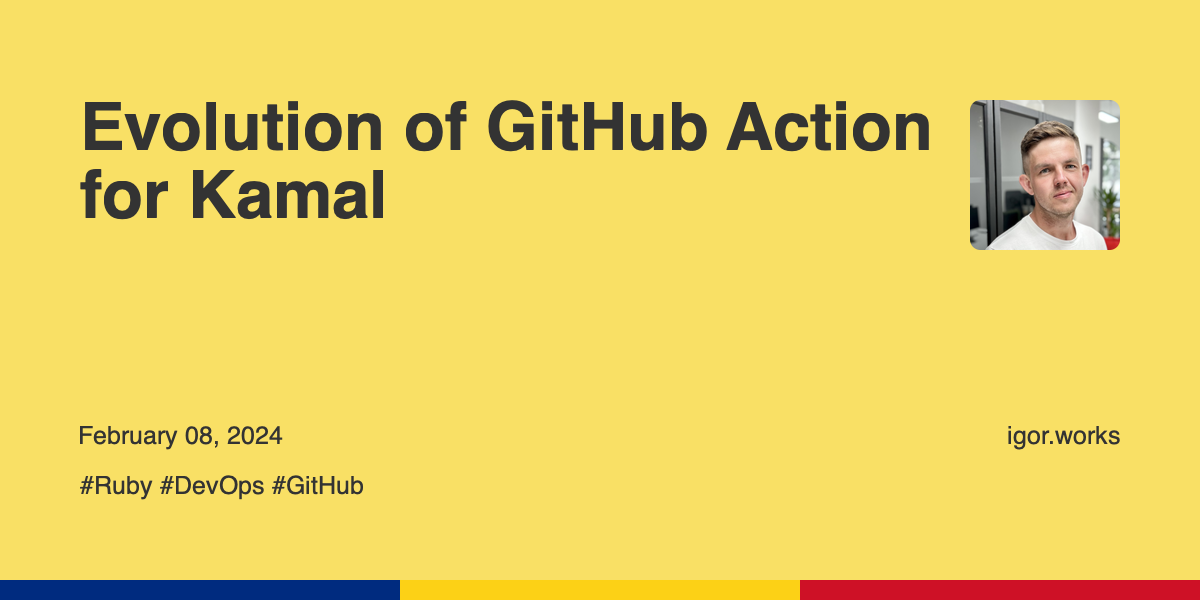
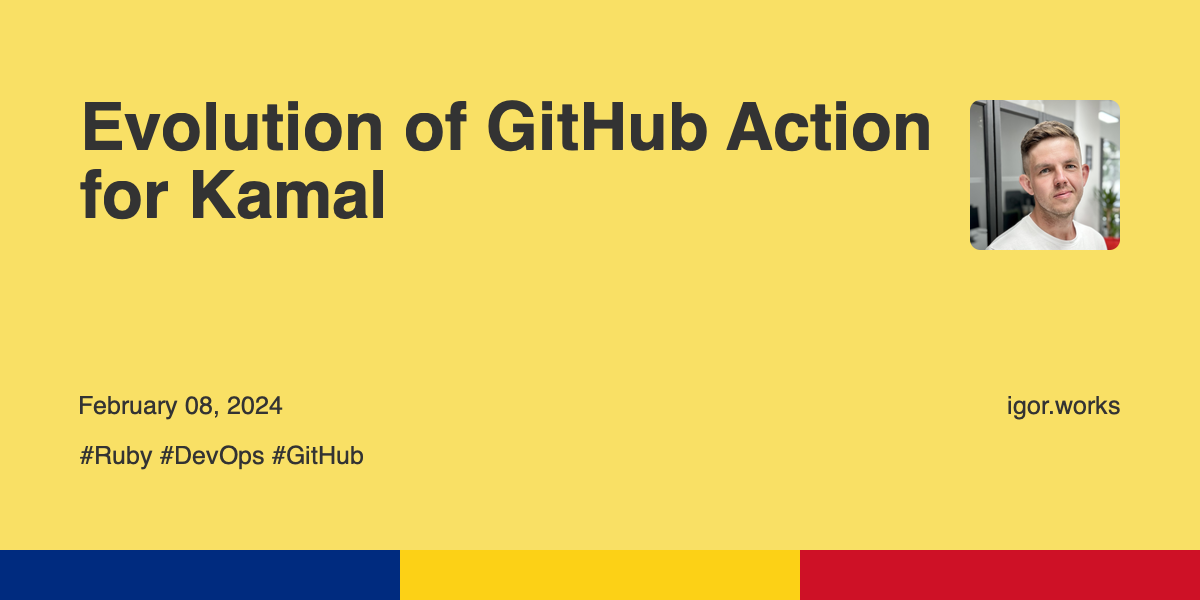
Added ability to use image as a background

Changed region(s): [[0.0, 0.9, 1.0, 0.99], [0.0617, 0.66, 0.3083, 0.84], [0.8325, 0.66, 0.9558, 0.75]]

diff --git a/lib/jekyll_og_image/generator.rb b/lib/jekyll_og_image/generator.rb
@@ -35,13 +35,21 @@ class JekyllOgImage::Generator < Jekyll::Generator
   def generate_image_for_post(site, post, path)
     date = post.date.strftime("%B %d, %Y")
 
+    background_image = if JekyllOgImage.config.canvas["background_image"]
+      File.read(File.join(site.config["source"], JekyllOgImage.config.canvas["background_image"]))
+    end
+
     canvas = JekyllOgImage::Element::Canvas.new(1200, 600,
-        color: JekyllOgImage.config.canvas["background_color"]
-      )
-      .border(JekyllOgImage.config.border_bottom["width"],
+      background_color: JekyllOgImage.config.canvas["background_color"],
+      background_image: background_image
+    )
+
+    if JekyllOgImage.config.border_bottom
+      canvas = canvas.border(JekyllOgImage.config.border_bottom["width"],
         position: :bottom,
         fill: JekyllOgImage.config.border_bottom["fill"]
       )
+    end
 
     if JekyllOgImage.config.image
       canvas = canvas.image(
@@ -65,7 +73,7 @@ class JekyllOgImage::Generator < Jekyll::Generator
       color: JekyllOgImage.config.content["color"],
       dpi: 150,
       font: JekyllOgImage.config.content["font_family"]
-    ) { |_canvas, _text| { x: 80, y: post.data["tags"].any? ? 150 : 100 } }
+    ) { |_canvas, _text| { x: 80, y: post.data["tags"].any? ? JekyllOgImage.config.margin_bottom + 50 : JekyllOgImage.config.margin_bottom } }
 
     if post.data["tags"].any?
       tags = post.data["tags"].map { |tag| "##{tag}" }.join(" ")
@@ -75,7 +83,7 @@ class JekyllOgImage::Generator < Jekyll::Generator
         color: JekyllOgImage.config.content["color"],
         dpi: 150,
         font: JekyllOgImage.config.content["font_family"]
-      ) { |_canvas, _text| { x: 80, y: 100 } }
+      ) { |_canvas, _text| { x: 80, y: JekyllOgImage.config.margin_bottom } }
     end
 
     if JekyllOgImage.config.domain
@@ -87,7 +95,7 @@ class JekyllOgImage::Generator < Jekyll::Generator
       ) do |_canvas, _text|
         {
           x: 80,
-          y: post.data["tags"].any? ? 150 : 100
+          y: post.data["tags"].any? ? JekyllOgImage.config.margin_bottom + 50 : JekyllOgImage.config.margin_bottom
         }
       end
     end

diff --git a/lib/jekyll_og_image/config.rb b/lib/jekyll_og_image/config.rb
@@ -7,7 +7,8 @@ class JekyllOgImage::Config < Anyway::Config
   attr_config force: false
   attr_config verbose: false
   attr_config canvas: {
-    background_color: "#FFFFFF"
+    background_color: "#FFFFFF",
+    background_image: nil
   }
   attr_config header: {
     font_family: "Helvetica, Bold",
@@ -19,13 +20,11 @@ class JekyllOgImage::Config < Anyway::Config
   }
   attr_config :image
   attr_config :domain
-  attr_config border_bottom: {
-    width: 20,
-    fill: [ "#211F1F", "#F4CBB2", "#AD5C51", "#9CDAF1", "#7DBBE6" ]
-  }
+  attr_config :border_bottom
 
   coerce_types canvas: {
-    background_color: { type: :string }
+    background_color: { type: :string },
+    background_image: { type: :string }
   }
 
   coerce_types header: {
@@ -44,4 +43,8 @@ class JekyllOgImage::Config < Anyway::Config
     width: { type: :integer },
     fill: { type: :string, array: true }
   }
+
+  def margin_bottom
+    80 + (border_bottom&.fetch("width", 0) || 0)
+  end
 end

diff --git a/lib/jekyll_og_image/element/image.rb b/lib/jekyll_og_image/element/image.rb
@@ -15,12 +15,12 @@ class JekyllOgImage::Element::Image < JekyllOgImage::Element::Base
     image = Vips::Image.new_from_buffer(@source, "")
     image = round_corners(image) if @radius
 
-    result = block.call(canvas, image) if block_given?
-
     if @width && @height
       ratio = calculate_ratio(image, @width, @height, :min)
       image = image.resize(ratio)
     end
+
+    result = block.call(canvas, image) if block_given?
 
     x, y = result ? [ result.fetch(:x, 0), result.fetch(:y, 0) ] : [ 0, 0 ]
 
@@ -52,13 +52,5 @@ class JekyllOgImage::Element::Image < JekyllOgImage::Element::Base
 
     mask = Vips::Image.new_from_buffer(mask, "")
     image.bandjoin mask[3]
-  end
-
-  def calculate_ratio(image, width, height, mode)
-    if mode == :min
-      [ width.to_f / image.width, height.to_f / image.height ].min
-    else
-      [ width.to_f / image.width, height.to_f / image.height ].max
-    end
   end
 end

diff --git a/lib/jekyll_og_image/element/canvas.rb b/lib/jekyll_og_image/element/canvas.rb
@@ -3,8 +3,19 @@
 require "vips"
 
 class JekyllOgImage::Element::Canvas < JekyllOgImage::Element::Base
-  def initialize(width, height, color: "#ffffff")
-    @canvas = Vips::Image.black(width, height).ifthenelse([ 0, 0, 0 ], hex_to_rgb(color))
+  def initialize(width, height, background_color: "#ffffff", background_image: nil)
+    @canvas = Vips::Image.black(width, height).ifthenelse([ 0, 0, 0 ], hex_to_rgb(background_color))
+
+    if background_image
+      overlay = Vips::Image.new_from_buffer(background_image, "")
+
+      ratio = calculate_ratio(overlay, width, height, :max)
+      overlay = overlay.resize(ratio)
+
+      @canvas = @canvas.composite(overlay, :over, x: [ 0 ], y: [ 0 ]).flatten
+    end
+
+    @canvas
   end
 
   def image(source, **opts, &block)

diff --git a/spec/jekyll_og_image/config_spec.rb b/spec/jekyll_og_image/config_spec.rb
@@ -1,0 +1,23 @@
+# frozen_string_literal: true
+
+RSpec.describe JekyllOgImage::Config do
+  subject { described_class.new }
+
+  describe '#margin_bottom' do
+    context 'when border_bottom is not set' do
+      it 'returns 80' do
+        expect(subject.margin_bottom).to eq(80)
+      end
+    end
+
+    context 'when border_bottom is set' do
+      before do
+        subject.border_bottom = { "width" => 10 }
+      end
+
+      it 'returns 90' do
+        expect(subject.margin_bottom).to eq(90)
+      end
+    end
+  end
+end

diff --git a/lib/jekyll_og_image/element/base.rb b/lib/jekyll_og_image/element/base.rb
@@ -22,6 +22,14 @@ class JekyllOgImage::Element::Base
     end
   end
 
+  def calculate_ratio(image, width, height, mode)
+    if mode == :min
+      [ width.to_f / image.width, height.to_f / image.height ].min
+    else
+      [ width.to_f / image.width, height.to_f / image.height ].max
+    end
+  end
+
   def composite_with_gravity(canvas, overlay, x, y)
     if gravity_nw?
       canvas.composite(overlay, :over, x: [ x ], y: [ y ]).flatten

diff --git a/spec/jekyll_og_image_spec.rb b/spec/jekyll_og_image_spec.rb
@@ -23,10 +23,6 @@ RSpec.describe JekyllOgImage do
     FileUtils.rm_rf(File.join(source_dir, "assets"))
   end
 
-  it "has a version number" do
-    expect(JekyllOgImage::VERSION).not_to be nil
-  end
-
   it "generates OpenGraph images for published posts" do
     og_image.generate(site)
 

diff --git a/spec/jekyll_og_image/version_spec.rb b/spec/jekyll_og_image/version_spec.rb
@@ -1,0 +1,7 @@
+# frozen_string_literal: true
+
+RSpec.describe JekyllOgImage::VERSION do
+  it "has a version number" do
+    expect(JekyllOgImage::VERSION).not_to be nil
+  end
+end

diff --git a/lib/jekyll_og_image/version.rb b/lib/jekyll_og_image/version.rb
@@ -1,5 +1,5 @@
 # frozen_string_literal: true
 
 module JekyllOgImage
-  VERSION = "1.1.0"
+  VERSION = "1.2.0"
 end

diff --git a/README.md b/README.md
@@ -61,7 +61,7 @@ og_image:
 
 ![Example 1](examples/1.png)
 
-### Background Color and Text Colors
+### Background Color and Text Color
 
 ```yaml
 og_image:
@@ -78,7 +78,7 @@ og_image:
   force: false
   domain: "igor.works"
   border_bottom:
-    width: 20
+    width: 50
     fill:
       - "#002B7F"
       - "#FCD116"
@@ -86,6 +86,26 @@ og_image:
 ```
 
 ![Example 3](examples/3.png)
+
+### Background Image
+
+```yaml
+og_image:
+  output_dir: "/assets/og"
+  image: "/assets/images/igor.jpeg"
+  canvas:
+    background_image: "/assets/images/bc_3.jpg"
+  header:
+    font_family: "Roboto, Bold"
+    color: "#333333"
+  content:
+    font_family: "Roboto, Bold"
+    color: "#333333"
+  force: false
+  domain: "igor.works"
+```
+
+![Example 4](examples/4.png)
 
 
 ## Contributing
